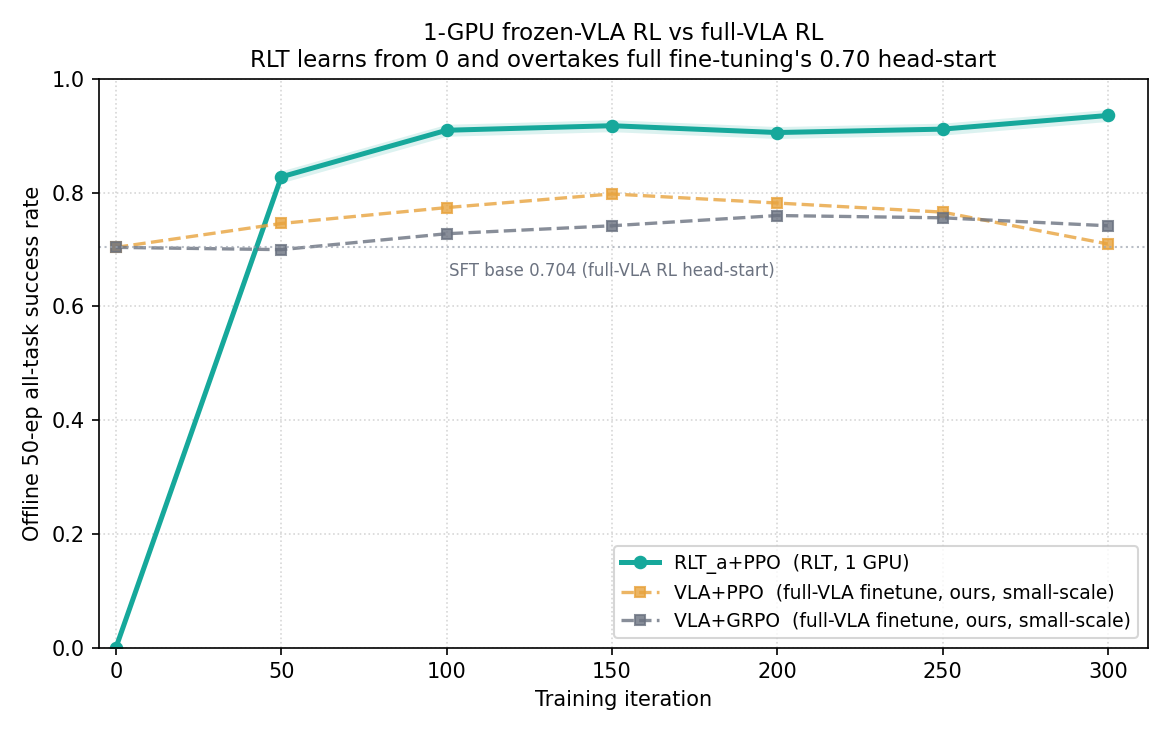
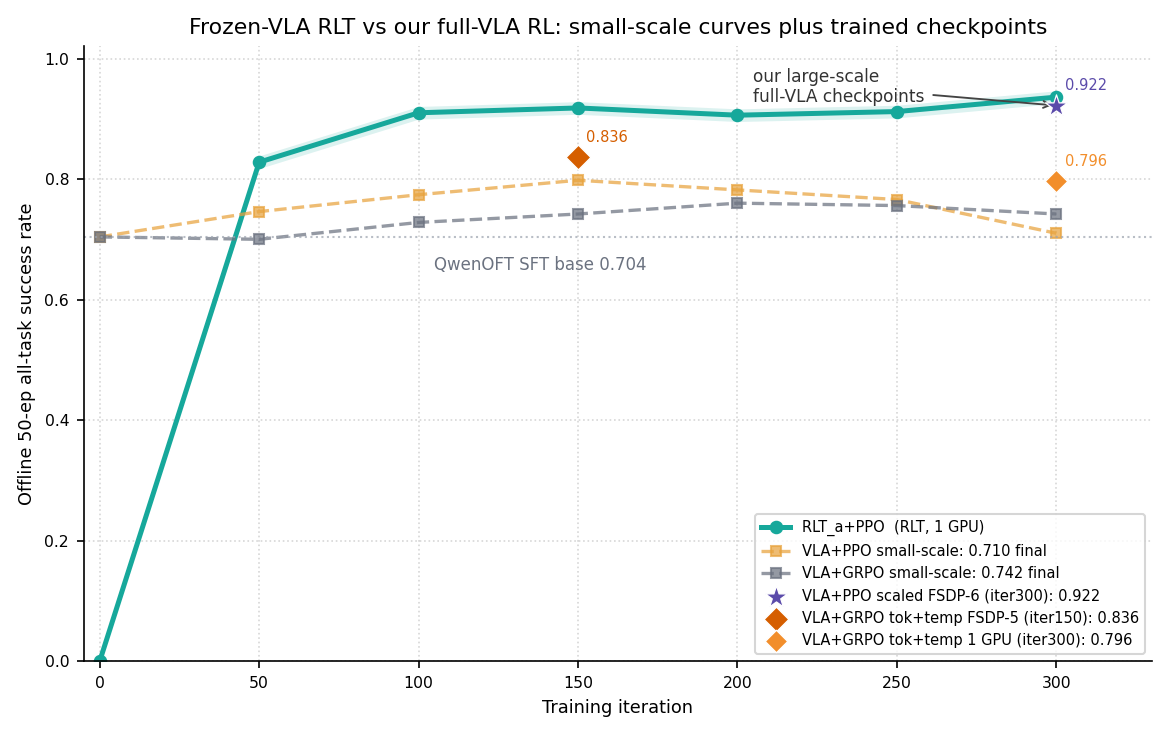
docs(rl-report): plot trained VLA checkpoints

diff --git a/AlphaBrain/training/reinforcement_learning/report_figures/plot_efficiency_curve.py b/AlphaBrain/training/reinforcement_learning/report_figures/plot_efficiency_curve.py
@@ -273,7 +273,7 @@ def fig_vs_vla():
         ax.fill_between(its, [max(0.0, b - sd) for b in bs], [min(1.0, b + sd) for b in bs],
                         color="#16A89B", alpha=0.15, linewidth=0, zorder=1)
     print("  RLT_a+PPO:", " ".join(f"{i}:{best[i]:.3f}" for i in its))
-    # full-VLA baselines (start at SFT base)
+    # full-VLA small-scale baselines (start at SFT base)
     for name, col in [("VLA+PPO", "#E8A33D"), ("VLA+GRPO", "#6B7280")]:
         tag = "ppo" if name.endswith("PPO") else "grpo"
         pts = {0: BASE_VLA}
@@ -284,15 +284,39 @@ def fig_vs_vla():
                 pts[it] = sr
         xs = sorted(pts)
         ax.plot(xs, [pts[i] for i in xs], "--s", color=col, lw=1.6, markersize=5,
-                alpha=0.8, label=f"{name}  (full-VLA finetune, ours, small-scale)")
+                alpha=0.72, label=f"{name} small-scale: {pts[xs[-1]]:.3f} final")
         print(f"  {name}:", " ".join(f"{i}:{pts[i]:.3f}" for i in xs))
+    # Our trained large-scale/full-VLA checkpoints. Only draw checkpoints that
+    # have offline 50-episode evals; do not connect them back to the SFT base.
+    scaled_points = [
+        ("VLA+PPO scaled FSDP-6 (iter300): 0.922",
+         "results/eval_remaining_0612/vla_ppo_scale_iter300.json", 300, "#5B4BAA", "*", 125),
+        ("VLA+GRPO tok+temp FSDP-5 (iter150): 0.836",
+         "results/eval_remaining_0612/grpo_fsdp_toktemp_iter150/summary.json", 150, "#D55E00", "D", 70),
+        ("VLA+GRPO tok+temp 1 GPU (iter300): 0.796",
+         "results/eval_remaining_0612/grpo_toktemp_iter300/summary.json", 300, "#F28E2B", "D", 58),
+    ]
+    for label, rel, x, col, marker, size in scaled_points:
+        y = _overall(os.path.join(ROOT, rel))
+        if y is None:
+            print("  missing", label, rel)
+            continue
+        ax.scatter([x], [y], s=size, marker=marker, color=col, edgecolor="white",
+                   linewidth=0.6, zorder=5, label=label)
+        ax.annotate(f"{y:.3f}", xy=(x, y), xytext=(4, 6), textcoords="offset points",
+                    fontsize=7.0, color=col, ha="left", va="bottom")
+        print(f"  {label} {x}:{y:.3f}")
     ax.axhline(BASE_VLA, color="#9CA3AF", ls=":", lw=1.0, alpha=0.7)
-    ax.text(150, BASE_VLA - 0.05, "SFT base 0.704 (full-VLA RL head-start)",
+    ax.text(138, BASE_VLA - 0.055, "QwenOFT SFT base 0.704",
             fontsize=8, color="#6B7280", ha="center")
+    ax.annotate("our large-scale\nfull-VLA checkpoints", xy=(300, 0.922), xytext=(205, 0.985),
+                arrowprops=dict(arrowstyle="->", color="#444", lw=0.9),
+                fontsize=8.2, ha="left", va="top", color="#333")
     _axfmt(ax)
-    ax.set_title("1-GPU frozen-VLA RL vs full-VLA RL\n"
-                 "RLT learns from 0 and overtakes full fine-tuning's 0.70 head-start", fontsize=11)
-    ax.legend(loc="lower right", fontsize=9)
+    ax.set_ylim(0.0, 1.02)
+    ax.set_xlim(-5, 330)
+    ax.set_title("Frozen-VLA RLT vs our full-VLA RL: small-scale curves plus trained checkpoints", fontsize=10.5)
+    ax.legend(loc="lower right", fontsize=7.0, frameon=True)
     fig.tight_layout()
     out = os.path.join(HERE, "fig6b_rlt_vs_vla.png")
     fig.savefig(out, dpi=150); plt.close(fig); print("wrote", out)

diff --git a/paper_overleaf/rl_bottleneck_standalone.tex b/paper_overleaf/rl_bottleneck_standalone.tex
@@ -134,15 +134,8 @@ The gradient step is negligible---an iteration of full-VLA PPO is dominated by C
 \begin{figure}[t]
     \centering
     \includegraphics[width=0.78\linewidth]{figures/rlt_vs_vla_curve.png}
-    \caption{\textbf{Single-GPU frozen-VLA RL vs.\ full-VLA fine-tuning (compute-matched, ours).} Offline 50-ep all-task success rate per checkpoint. RLT$_a$+PPO (teal) learns from a cold $0$ and converges above the small-scale full-VLA baselines (dashed), which begin from the measured $0.704$ SFT base. This is the efficiency/stability claim of RQ-B---\emph{not} a comparison against large-scale full-VLA RL (RLinf-VLA, $0.988$; see \cref{tab:rlt_cost}), which is not shown here.}
+    \caption{\textbf{Frozen-VLA RLT vs.\ our full-VLA RL.} Offline 50-ep all-task success rate per checkpoint. RLT$_a$+PPO (teal) learns from a cold $0$ and overtakes our small-scale full-VLA baselines (dashed), which begin from the measured $0.704$ SFT base. The same plot overlays our trained large-scale full-VLA checkpoints without drawing artificial endpoint lines: scaled FSDP-$6$ VLA$+$PPO ($0.922$ at iter-$300$), token-level+temporal-credit VLA$+$GRPO on FSDP-$5$ ($0.836$ at iter-$150$), and the matching single-GPU token-level+temporal-credit VLA$+$GRPO run ($0.796$ at iter-$300$).}
     \label{fig:rlt_vs_vla}
-\end{figure}
-
-\begin{figure}[t]
-    \centering
-    \includegraphics[width=0.82\linewidth]{figures/rlt_large_scale_comparison.png}
-    \caption{\textbf{Large-scale full-VLA reference.} RLT$+$PPO reaches $0.953$ on a single GPU while training only ${\sim}0.8$M parameters, exceeding our faithfully scaled FSDP-$6$ full-VLA PPO baseline ($0.922$) and reaching ${\sim}96\%$ of RLinf-VLA's reported $0.988$ with far fewer trainable parameters and GPUs. This is the large-scale caveat and efficiency frontier behind \cref{tab:rlt_cost}.}
-    \label{fig:rlt_large_scale}
 \end{figure}
 
 \begin{table}[t]

diff --git a/paper_overleaf/secs/rl_bottleneck.tex b/paper_overleaf/secs/rl_bottleneck.tex
@@ -123,15 +123,8 @@ The gradient step is negligible---an iteration of full-VLA PPO is dominated by C
 \begin{figure}[t]
     \centering
     \includegraphics[width=0.78\linewidth]{figures/rlt_vs_vla_curve.png}
-    \caption{\textbf{Single-GPU frozen-VLA RL vs.\ full-VLA fine-tuning (compute-matched, ours).} Offline 50-ep all-task success rate per checkpoint. RLT$_a$+PPO (teal) learns from a cold $0$ and converges above the small-scale full-VLA baselines (dashed), which begin from the measured $0.704$ SFT base. This is the efficiency/stability claim of RQ-B---\emph{not} a comparison against large-scale full-VLA RL (RLinf-VLA, $0.988$; see \cref{tab:rlt_cost}), which is not shown here.}
+    \caption{\textbf{Frozen-VLA RLT vs.\ our full-VLA RL.} Offline 50-ep all-task success rate per checkpoint. RLT$_a$+PPO (teal) learns from a cold $0$ and overtakes our small-scale full-VLA baselines (dashed), which begin from the measured $0.704$ SFT base. The same plot overlays our trained large-scale full-VLA checkpoints without drawing artificial endpoint lines: scaled FSDP-$6$ VLA$+$PPO ($0.922$ at iter-$300$), token-level+temporal-credit VLA$+$GRPO on FSDP-$5$ ($0.836$ at iter-$150$), and the matching single-GPU token-level+temporal-credit VLA$+$GRPO run ($0.796$ at iter-$300$).}
     \label{fig:rlt_vs_vla}
-\end{figure}
-
-\begin{figure}[t]
-    \centering
-    \includegraphics[width=0.82\linewidth]{figures/rlt_large_scale_comparison.png}
-    \caption{\textbf{Large-scale full-VLA reference.} RLT$+$PPO reaches $0.953$ on a single GPU while training only ${\sim}0.8$M parameters, exceeding our faithfully scaled FSDP-$6$ full-VLA PPO baseline ($0.922$) and reaching ${\sim}96\%$ of RLinf-VLA's reported $0.988$ with far fewer trainable parameters and GPUs. This is the large-scale caveat and efficiency frontier behind \cref{tab:rlt_cost}.}
-    \label{fig:rlt_large_scale}
 \end{figure}
 
 \begin{table}[t]

diff --git a/rl_bottlenect.tex b/rl_bottlenect.tex
@@ -123,15 +123,8 @@ The gradient step is negligible---an iteration of full-VLA PPO is dominated by C
 \begin{figure}[t]
     \centering
     \includegraphics[width=0.78\linewidth]{figures/rlt_vs_vla_curve.png}
-    \caption{\textbf{Single-GPU frozen-VLA RL vs.\ full-VLA fine-tuning (compute-matched, ours).} Offline 50-ep all-task success rate per checkpoint. RLT$_a$+PPO (teal) learns from a cold $0$ and converges above the small-scale full-VLA baselines (dashed), which begin from the measured $0.704$ SFT base. This is the efficiency/stability claim of RQ-B---\emph{not} a comparison against large-scale full-VLA RL (RLinf-VLA, $0.988$; see \cref{tab:rlt_cost}), which is not shown here.}
+    \caption{\textbf{Frozen-VLA RLT vs.\ our full-VLA RL.} Offline 50-ep all-task success rate per checkpoint. RLT$_a$+PPO (teal) learns from a cold $0$ and overtakes our small-scale full-VLA baselines (dashed), which begin from the measured $0.704$ SFT base. The same plot overlays our trained large-scale full-VLA checkpoints without drawing artificial endpoint lines: scaled FSDP-$6$ VLA$+$PPO ($0.922$ at iter-$300$), token-level+temporal-credit VLA$+$GRPO on FSDP-$5$ ($0.836$ at iter-$150$), and the matching single-GPU token-level+temporal-credit VLA$+$GRPO run ($0.796$ at iter-$300$).}
     \label{fig:rlt_vs_vla}
-\end{figure}
-
-\begin{figure}[t]
-    \centering
-    \includegraphics[width=0.82\linewidth]{figures/rlt_large_scale_comparison.png}
-    \caption{\textbf{Large-scale full-VLA reference.} RLT$+$PPO reaches $0.953$ on a single GPU while training only ${\sim}0.8$M parameters, exceeding our faithfully scaled FSDP-$6$ full-VLA PPO baseline ($0.922$) and reaching ${\sim}96\%$ of RLinf-VLA's reported $0.988$ with far fewer trainable parameters and GPUs. This is the large-scale caveat and efficiency frontier behind \cref{tab:rlt_cost}.}
-    \label{fig:rlt_large_scale}
 \end{figure}
 
 \begin{table}[t]
